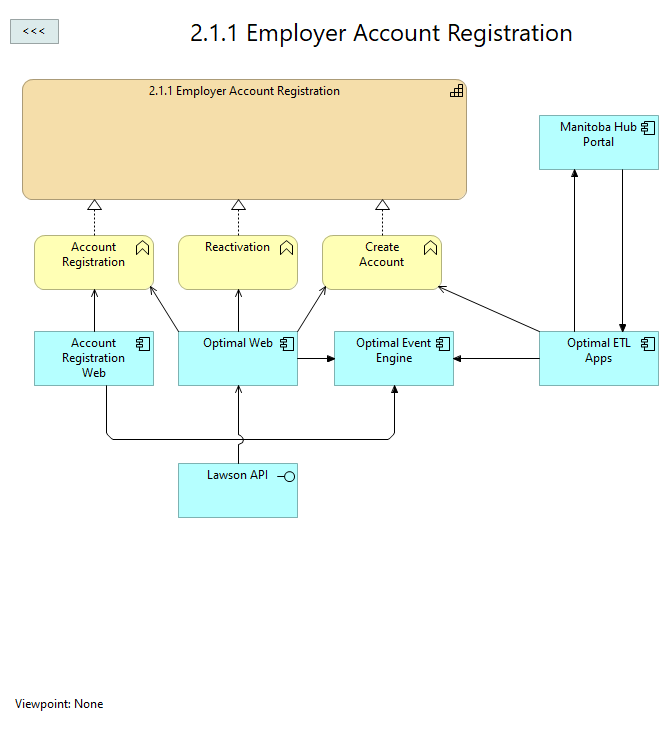
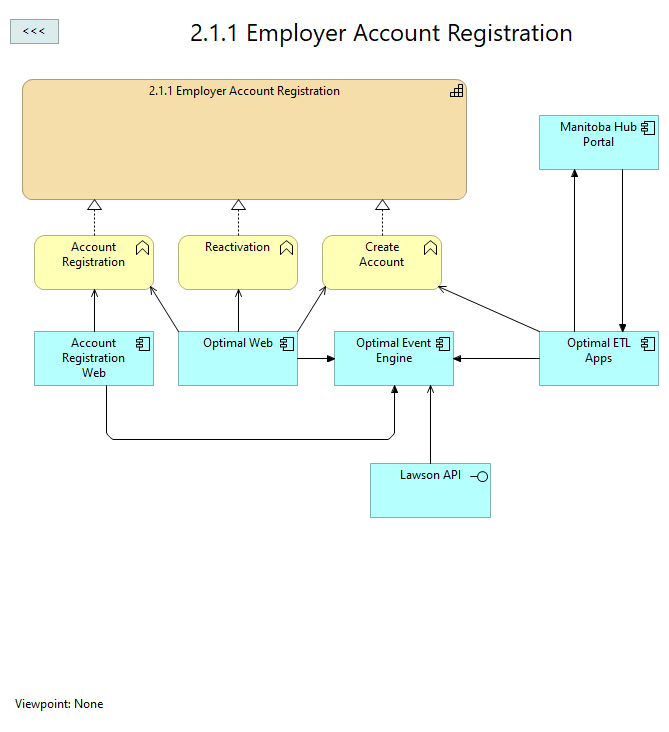
Version 2023-06-08 - 13:07

Changed region(s): [[0.5381, 0.6311, 0.7474, 0.7213], [0.2691, 0.6311, 0.4484, 0.7213]]

diff --git a/id-3b9cf8934b1f4226ba22a92c4b082ed1/elements/model.html b/id-3b9cf8934b1f4226ba22a92c4b082ed1/elements/model.html
@@ -1056,12 +1056,6 @@
 											dataElements.push({id:"id-2fdccea91dc6419cb0e8d6fe3bd04305", type:"ApplicationInterface", specialization:decodeURL(""), name:decodeURL("Emerge+Common+EJB"), documentation:decodeURL("")});
 
 
-									dataFoldersContent.push({folderid:"id-c0aab48c554c484da8b1b9d2928e0f4c", contentid:"id-8b5520bb1d01402b9ff922e7c1184881", contenttype:"ApplicationComponent"});
-										dataElements.push({id:"id-8b5520bb1d01402b9ff922e7c1184881", type:"ApplicationComponent", specialization:decodeURL(""), name:decodeURL("Crystal+Reports+%28copy%29"), documentation:decodeURL("Crystal+Reports+%3A%0D%0APlease+see%0D%0A1.+https%3A%2F%2Fwcbmb.atlassian.net%2Fwiki%2Fspaces%2FAS%2Fpages%2F18056512%2FCrystal%2BReport%2BProcesses%0D%0A2.+https%3A%2F%2Fwcbmb.atlassian.net%2Fwiki%2Fspaces%2FAS%2Fpages%2F18055472%2FCrystal%2BReports%2Bin%2BCrystal%2BEnterprise")});
-									dataFoldersContent.push({folderid:"id-c0aab48c554c484da8b1b9d2928e0f4c", contentid:"id-aa47ede78b48406ebdf73d8e0a5bcb5d", contenttype:"ApplicationComponent"});
-										dataElements.push({id:"id-aa47ede78b48406ebdf73d8e0a5bcb5d", type:"ApplicationComponent", specialization:decodeURL(""), name:decodeURL("SAFE+Work+Navigator+%28copy%29"), documentation:decodeURL("")});
-									dataFoldersContent.push({folderid:"id-c0aab48c554c484da8b1b9d2928e0f4c", contentid:"id-c2b8c8917253465bbbf574c5d1923326", contenttype:"ApplicationComponent"});
-										dataElements.push({id:"id-c2b8c8917253465bbbf574c5d1923326", type:"ApplicationComponent", specialization:decodeURL(""), name:decodeURL("Lawson+Financial+Suite+%28copy%29"), documentation:decodeURL("Lawson+Financial+Suite+is+used+for+keeping+WCB%27s+financial+information%0D%0APlease+see+the+confluence+link+https%3A%2F%2Fwcbmb.atlassian.net%2Fwiki%2Fspaces%2FAS%2Fpages%2F18055669%2FLawson%2BInfor+and+its+subpages+for+more+information.")});
 
 								dataFoldersContent.push({folderid:"id-3b9cf8934b1f4226ba22a92c4b082ed1", contentid:"id-abb08c1db1d54455b6d49205400c6284", contenttype:"Folder"});
 								dataFolders.push({id:"id-abb08c1db1d54455b6d49205400c6284", type:"Folder", name:decodeURL("Technology+%26+Physical"), documentation:decodeURL("")});
@@ -1913,6 +1907,8 @@
 										dataRelationships.push({id:"id-65352fbbb5474a3c975467d7fae6a67c", type:"ServingRelationship", specialization:decodeURL(""), name:decodeURL(""), documentation:decodeURL(""), sourceid:"id-150f8b103c4a49b5ba21681e464256e1", targetid:"id-808abc8e97f244b1aab34780e65e731c"});
 									dataFoldersContent.push({folderid:"id-a2a4fb0e578c424a82c01ce7bb023669", contentid:"id-66ebbb97b4fc44e69d20e8a7ed91b46d", contenttype:"ServingRelationship"});
 										dataRelationships.push({id:"id-66ebbb97b4fc44e69d20e8a7ed91b46d", type:"ServingRelationship", specialization:decodeURL(""), name:decodeURL(""), documentation:decodeURL(""), sourceid:"id-94569a9edaad416fb626849c42b31a17", targetid:"id-984d500e7583457383b5e835ecd82caf"});
+									dataFoldersContent.push({folderid:"id-a2a4fb0e578c424a82c01ce7bb023669", contentid:"id-6710af4c691648e486a54cd7c6c8299f", contenttype:"ServingRelationship"});
+										dataRelationships.push({id:"id-6710af4c691648e486a54cd7c6c8299f", type:"ServingRelationship", specialization:decodeURL(""), name:decodeURL(""), documentation:decodeURL(""), sourceid:"id-ed0722625be34bf9904e886054e2715c", targetid:"id-2200602adf494eae9a05823e75e734c1"});
 									dataFoldersContent.push({folderid:"id-a2a4fb0e578c424a82c01ce7bb023669", contentid:"id-6c86c609e85744aca322902d342d52c5", contenttype:"ServingRelationship"});
 										dataRelationships.push({id:"id-6c86c609e85744aca322902d342d52c5", type:"ServingRelationship", specialization:decodeURL(""), name:decodeURL(""), documentation:decodeURL(""), sourceid:"id-150f8b103c4a49b5ba21681e464256e1", targetid:"id-98e4633594c643f8bf432c6da076d887"});
 									dataFoldersContent.push({folderid:"id-a2a4fb0e578c424a82c01ce7bb023669", contentid:"id-70d59c4596f84c03b5326bf78741d6ae", contenttype:"ServingRelationship"});
@@ -2039,8 +2035,6 @@
 										dataRelationships.push({id:"id-e18d4e73c2bb4db48159a0d587614fb3", type:"ServingRelationship", specialization:decodeURL(""), name:decodeURL(""), documentation:decodeURL(""), sourceid:"id-c9ebf3abed38400eb7b01c8297cd31e4", targetid:"id-4a453d9b564f4dfe83d587e7686ea446"});
 									dataFoldersContent.push({folderid:"id-a2a4fb0e578c424a82c01ce7bb023669", contentid:"id-e26cd55cd37a4bb789795091fdb8d193", contenttype:"ServingRelationship"});
 										dataRelationships.push({id:"id-e26cd55cd37a4bb789795091fdb8d193", type:"ServingRelationship", specialization:decodeURL(""), name:decodeURL(""), documentation:decodeURL(""), sourceid:"id-c9ebf3abed38400eb7b01c8297cd31e4", targetid:"id-d221c03abc934d09880eab68fecd0045"});
-									dataFoldersContent.push({folderid:"id-a2a4fb0e578c424a82c01ce7bb023669", contentid:"id-e64c2e7de13c4e9eb6fac273e2886b0a", contenttype:"ServingRelationship"});
-										dataRelationships.push({id:"id-e64c2e7de13c4e9eb6fac273e2886b0a", type:"ServingRelationship", specialization:decodeURL(""), name:decodeURL(""), documentation:decodeURL(""), sourceid:"id-ed0722625be34bf9904e886054e2715c", targetid:"id-c9ebf3abed38400eb7b01c8297cd31e4"});
 									dataFoldersContent.push({folderid:"id-a2a4fb0e578c424a82c01ce7bb023669", contentid:"id-e7c44d687e3141f99ee6eadc26fbd2df", contenttype:"ServingRelationship"});
 										dataRelationships.push({id:"id-e7c44d687e3141f99ee6eadc26fbd2df", type:"ServingRelationship", specialization:decodeURL(""), name:decodeURL(""), documentation:decodeURL(""), sourceid:"id-94569a9edaad416fb626849c42b31a17", targetid:"id-21ba8432d9344ceb8c96f349d65ab331"});
 									dataFoldersContent.push({folderid:"id-a2a4fb0e578c424a82c01ce7bb023669", contentid:"id-e9883019bbb046c1b155beaac12c1983", contenttype:"ServingRelationship"});
@@ -2449,7 +2443,7 @@
 
 																					dataViewsContent.push({viewid:"id-b0a2d85a743f4b6a8fb7870d20d4e48c", contentid:"id-322377bdd0a440d2971e4558f8d7c19f", contenttype:"RealizationRelationship"});
 
-																					dataViewsContent.push({viewid:"id-b0a2d85a743f4b6a8fb7870d20d4e48c", contentid:"id-e64c2e7de13c4e9eb6fac273e2886b0a", contenttype:"ServingRelationship"});
+																					dataViewsContent.push({viewid:"id-b0a2d85a743f4b6a8fb7870d20d4e48c", contentid:"id-6710af4c691648e486a54cd7c6c8299f", contenttype:"ServingRelationship"});
 
 
 												dataFoldersContent.push({folderid:"id-1353bdddf1034566be7d4c5753010376", contentid:"id-cc3aeaab78e049e28c3d6930f5fd590d", contenttype:"ArchimateDiagramModel"});
@@ -3462,7 +3456,7 @@
 
 
 									dataFoldersContent.push({folderid:"id-be0607b7485c4369855dd4495990cf31", contentid:"id-65fac7f5916c4f0180a042fad055902d", contenttype:"Folder"});
-									dataFolders.push({id:"id-65fac7f5916c4f0180a042fad055902d", type:"Folder", name:decodeURL("Organization+Chart"), documentation:decodeURL("")});
+									dataFolders.push({id:"id-65fac7f5916c4f0180a042fad055902d", type:"Folder", name:decodeURL("Organization"), documentation:decodeURL("")});
 										dataFoldersContent.push({folderid:"id-65fac7f5916c4f0180a042fad055902d", contentid:"id-6081c1f96a2d42f9ada0ffe71e29828c", contenttype:"ArchimateDiagramModel"});
 											dataViews.push({id:"id-6081c1f96a2d42f9ada0ffe71e29828c", type:"ArchimateDiagramModel", name:decodeURL("Departments"), documentation:decodeURL("")});
 													dataViewsContent.push({viewid:"id-6081c1f96a2d42f9ada0ffe71e29828c", contentid:"id-105e7170556f4ebfa9ab3f3a493fe942", contenttype:"BusinessActor"});
@@ -3840,11 +3834,11 @@
 																dataViewsContent.push({viewid:"id-1d7347488a2041a0b2357eaf0640b1a9", contentid:"id-ded21278330e4795878c10331bb68f9a", contenttype:"ApplicationComponent"});
 																dataViewsContent.push({viewid:"id-1d7347488a2041a0b2357eaf0640b1a9", contentid:"id-a80ace60707e432f9b4a2ad7d36bc4ac", contenttype:"TechnologyService"});
 																dataViewsContent.push({viewid:"id-1d7347488a2041a0b2357eaf0640b1a9", contentid:"id-693001eafc1448cba7f8b041346a500a", contenttype:"TechnologyService"});
-																dataViewsContent.push({viewid:"id-1d7347488a2041a0b2357eaf0640b1a9", contentid:"id-c2b8c8917253465bbbf574c5d1923326", contenttype:"ApplicationComponent"});
-																dataViewsContent.push({viewid:"id-1d7347488a2041a0b2357eaf0640b1a9", contentid:"id-8b5520bb1d01402b9ff922e7c1184881", contenttype:"ApplicationComponent"});
 																dataViewsContent.push({viewid:"id-1d7347488a2041a0b2357eaf0640b1a9", contentid:"id-ca93184325fa41028c8b758d900fad13", contenttype:"TechnologyService"});
 																dataViewsContent.push({viewid:"id-1d7347488a2041a0b2357eaf0640b1a9", contentid:"id-e64b4e5abbf7473f93ee6f5de1e32f34", contenttype:"TechnologyService"});
-																dataViewsContent.push({viewid:"id-1d7347488a2041a0b2357eaf0640b1a9", contentid:"id-aa47ede78b48406ebdf73d8e0a5bcb5d", contenttype:"ApplicationComponent"});
+																dataViewsContent.push({viewid:"id-1d7347488a2041a0b2357eaf0640b1a9", contentid:"id-43293759620443b6a43a17e38325a613", contenttype:"ApplicationComponent"});
+																dataViewsContent.push({viewid:"id-1d7347488a2041a0b2357eaf0640b1a9", contentid:"id-94569a9edaad416fb626849c42b31a17", contenttype:"ApplicationComponent"});
+																dataViewsContent.push({viewid:"id-1d7347488a2041a0b2357eaf0640b1a9", contentid:"id-4959424d5d1f450a86478e33282d531f", contenttype:"ApplicationComponent"});
 														
 														dataViewsContent.push({viewid:"id-1d7347488a2041a0b2357eaf0640b1a9", contentid:"id-cf281068eafb4c5ebcf0445497f7cf38", contenttype:"Capability"});
 																dataViewsContent.push({viewid:"id-1d7347488a2041a0b2357eaf0640b1a9", contentid:"id-2eec05c15a07406fb184b626dc3caa70", contenttype:"ArchimateDiagramModel"});

diff --git a/id-3b9cf8934b1f4226ba22a92c4b082ed1/views/id-1d7347488a2041a0b2357eaf0640b1a9.html b/id-3b9cf8934b1f4226ba22a92c4b082ed1/views/id-1d7347488a2041a0b2357eaf0640b1a9.html
@@ -209,11 +209,11 @@
 				  				    <!-- Other diagram objects -->
 
 				  				<area shape="rect" coords="1054,338,1727,675" href="../elements/id-cf281068eafb4c5ebcf0445497f7cf38.html"  target="element">
-				  						<area shape="rect" coords="430,554,550,609" href="../elements/id-aa47ede78b48406ebdf73d8e0a5bcb5d.html"  target="element">
+				  						<area shape="rect" coords="430,434,550,489" href="../elements/id-4959424d5d1f450a86478e33282d531f.html"  target="element">
+				  						<area shape="rect" coords="298,614,418,669" href="../elements/id-94569a9edaad416fb626849c42b31a17.html"  target="element">
+				  						<area shape="rect" coords="430,560,550,615" href="../elements/id-43293759620443b6a43a17e38325a613.html"  target="element">
 				  						<area shape="rect" coords="430,374,550,429" href="../elements/id-e64b4e5abbf7473f93ee6f5de1e32f34.html"  target="element">
 				  						<area shape="rect" coords="430,494,550,549" href="../elements/id-ca93184325fa41028c8b758d900fad13.html"  target="element">
-				  						<area shape="rect" coords="430,434,550,489" href="../elements/id-8b5520bb1d01402b9ff922e7c1184881.html"  target="element">
-				  						<area shape="rect" coords="298,614,418,669" href="../elements/id-c2b8c8917253465bbbf574c5d1923326.html"  target="element">
 				  						<area shape="rect" coords="36,554,156,609" href="../elements/id-693001eafc1448cba7f8b041346a500a.html"  target="element">
 				  						<area shape="rect" coords="36,614,156,669" href="../elements/id-a80ace60707e432f9b4a2ad7d36bc4ac.html"  target="element">
 				  						<area shape="rect" coords="166,614,286,669" href="../elements/id-ded21278330e4795878c10331bb68f9a.html"  target="element">
@@ -386,18 +386,6 @@
 															</tr>
 
 															<tr>
-															    <td> <a href="../elements/id-c2b8c8917253465bbbf574c5d1923326.html" target="element"> Lawson Financial Suite (copy) </a> </td>
-															    <td> <a href="../elements/id-c2b8c8917253465bbbf574c5d1923326.html" target="element" class="i18n-elementtype-ApplicationComponent">
-															    </a> </td>
-															</tr>
-
-															<tr>
-															    <td> <a href="../elements/id-8b5520bb1d01402b9ff922e7c1184881.html" target="element"> Crystal Reports (copy) </a> </td>
-															    <td> <a href="../elements/id-8b5520bb1d01402b9ff922e7c1184881.html" target="element" class="i18n-elementtype-ApplicationComponent">
-															    </a> </td>
-															</tr>
-
-															<tr>
 															    <td> <a href="../elements/id-ca93184325fa41028c8b758d900fad13.html" target="element"> Comm100 </a> </td>
 															    <td> <a href="../elements/id-ca93184325fa41028c8b758d900fad13.html" target="element" class="i18n-elementtype-TechnologyService">
 															    </a> </td>
@@ -410,8 +398,20 @@
 															</tr>
 
 															<tr>
-															    <td> <a href="../elements/id-aa47ede78b48406ebdf73d8e0a5bcb5d.html" target="element"> SAFE Work Navigator (copy) </a> </td>
-															    <td> <a href="../elements/id-aa47ede78b48406ebdf73d8e0a5bcb5d.html" target="element" class="i18n-elementtype-ApplicationComponent">
+															    <td> <a href="../elements/id-43293759620443b6a43a17e38325a613.html" target="element"> SAFE Work Navigator </a> </td>
+															    <td> <a href="../elements/id-43293759620443b6a43a17e38325a613.html" target="element" class="i18n-elementtype-ApplicationComponent">
+															    </a> </td>
+															</tr>
+
+															<tr>
+															    <td> <a href="../elements/id-94569a9edaad416fb626849c42b31a17.html" target="element"> Lawson Financial Suite </a> </td>
+															    <td> <a href="../elements/id-94569a9edaad416fb626849c42b31a17.html" target="element" class="i18n-elementtype-ApplicationComponent">
+															    </a> </td>
+															</tr>
+
+															<tr>
+															    <td> <a href="../elements/id-4959424d5d1f450a86478e33282d531f.html" target="element"> Crystal Reports </a> </td>
+															    <td> <a href="../elements/id-4959424d5d1f450a86478e33282d531f.html" target="element" class="i18n-elementtype-ApplicationComponent">
 															    </a> </td>
 															</tr>
 

diff --git a/id-3b9cf8934b1f4226ba22a92c4b082ed1/elements/id-6710af4c691648e486a54cd7c6c8299f.html b/id-3b9cf8934b1f4226ba22a92c4b082ed1/elements/id-6710af4c691648e486a54cd7c6c8299f.html
@@ -1,0 +1,79 @@
+<!DOCTYPE html>
+<html class="frame" lang="en">
+<head>
+	<meta http-equiv="Content-Type" content="text/html;charset=utf-8">
+	<title></title>
+
+	<!-- JQUERY -->
+	<script type="text/javascript" src="../../lib/jquery/jquery.min.js"></script>
+	<!-- BOOTSTRAP -->
+	<link type="text/css" rel="stylesheet" href="../../lib/bootstrap/css/bootstrap.min.yeti.css">
+	<script type="text/javascript" src="../../lib/bootstrap/js/bootstrap-3.3.2.min.js"></script>
+	<!-- REPORT SPECIFIC -->
+	<link type="text/css" rel="stylesheet" href="../../css/model.css">
+	<link type="text/css" rel="stylesheet" href="../../css/i18n.css">
+	<script type="text/javascript" src="../../js/frame.js"></script>
+	<script type="text/javascript" src="../../js/imageMapResizer.min.js"></script>
+</head>
+
+<body>
+	<div class="panel panel-default root-panel">
+
+		<div class="panel-heading root-panel-heading">
+            <!-- Name -->
+               <b class="i18n-elementtype-ServingRelationship"></b>
+            <!-- If a View with Viewpoint -->
+			   (<span class="i18n-elementtype-ServingRelationship"></span>)
+			   <a class="glyphicon glyphicon-info-sign" id="hint-ServingRelationship" target="hint"></a>
+		</div>
+
+		<div class="panel-body root-panel-body">
+		    <!-- If this is a digram model (has children and no bounds) show the image -->
+
+			<div role="tabpanel">
+				<!-- Nav tabs -->
+				<ul class="nav nav-tabs" role="tablist">
+                    <!-- Purpose / Documentation / Content -->
+					   <li role="presentation" class="active"><a href="#documentation" aria-controls="documentation" role="tab" data-toggle="tab" class="i18n-documentation"></a></li>
+
+                    <!-- Properties -->
+                    <li role="presentation"><a href="#properties" aria-controls="properties" role="tab" data-toggle="tab" class="i18n-properties"></a></li>
+
+				</ul>
+
+				<!-- Tab panes -->
+				<div class="tab-content">
+					<div role="tabpanel" class="tab-pane active" id="documentation">
+							<br>
+							<b class="i18n-relation-source"></b>
+								<a href="../elements/id-ed0722625be34bf9904e886054e2715c.html" target="element">
+									Lawson API
+								</a>
+							<br>
+							<b class="i18n-relation-target"></b>
+								<a href="../elements/id-2200602adf494eae9a05823e75e734c1.html" target="element">
+									Optimal Event Engine
+								</a>
+							<br>
+							<br>
+						<div class="convertlinks documentation" style="white-space:pre-wrap"></div>
+					</div>
+					<div role="tabpanel" class="tab-pane" id="properties">
+						<table class="table table-striped table-hover table-condensed">
+							<thead>
+								<tr>
+									<th class="i18n-key"></th>
+									<th class="i18n-value"></th>
+								</tr>
+							</thead>
+							<tbody>
+							</tbody>
+						</table>
+					</div>
+			  </div>
+			</div>
+		</div>
+	</div>
+	<script type="text/javascript">imageMapResize();</script>
+</body>
+</html>

diff --git a/index.html b/index.html
@@ -711,10 +711,6 @@
 
 											</ul>
 											</li>
-													<li class="tree-element "><a href="id-3b9cf8934b1f4226ba22a92c4b082ed1/elements/id-8b5520bb1d01402b9ff922e7c1184881.html" target="element"> Crystal Reports (copy) </a></li>
-													<li class="tree-element "><a href="id-3b9cf8934b1f4226ba22a92c4b082ed1/elements/id-aa47ede78b48406ebdf73d8e0a5bcb5d.html" target="element"> SAFE Work Navigator (copy) </a></li>
-													<li class="tree-element "><a href="id-3b9cf8934b1f4226ba22a92c4b082ed1/elements/id-c2b8c8917253465bbbf574c5d1923326.html" target="element"> Lawson Financial Suite (copy) </a></li>
-
 									</ul>
 								</li>
 								<li class="tree-folder "><span class="i18n-technology_layer"><i class="glyphicon glyphicon-triangle-right"></i> </span>
@@ -2081,6 +2077,10 @@
 															<span class="i18n-elementtype-ServingRelationship"></span>
 														(Lawson Financial Suite - 3.8.2.1Budget creation and management) 
 													</a></li>
+													<li class="tree-element "><a href="id-3b9cf8934b1f4226ba22a92c4b082ed1/elements/id-6710af4c691648e486a54cd7c6c8299f.html" target="element">
+															<span class="i18n-elementtype-ServingRelationship"></span>
+														(Lawson API - Optimal Event Engine) 
+													</a></li>
 													<li class="tree-element "><a href="id-3b9cf8934b1f4226ba22a92c4b082ed1/elements/id-6c86c609e85744aca322902d342d52c5.html" target="element">
 															<span class="i18n-elementtype-ServingRelationship"></span>
 														(Emerge Web - Print Claim File) 
@@ -2332,10 +2332,6 @@
 													<li class="tree-element "><a href="id-3b9cf8934b1f4226ba22a92c4b082ed1/elements/id-e26cd55cd37a4bb789795091fdb8d193.html" target="element">
 															<span class="i18n-elementtype-ServingRelationship"></span>
 														(Optimal Web - 3.8.9.2 Late payment tracking and collections) 
-													</a></li>
-													<li class="tree-element "><a href="id-3b9cf8934b1f4226ba22a92c4b082ed1/elements/id-e64c2e7de13c4e9eb6fac273e2886b0a.html" target="element">
-															<span class="i18n-elementtype-ServingRelationship"></span>
-														(Lawson API - Optimal Web) 
 													</a></li>
 													<li class="tree-element "><a href="id-3b9cf8934b1f4226ba22a92c4b082ed1/elements/id-e7c44d687e3141f99ee6eadc26fbd2df.html" target="element">
 															<span class="i18n-elementtype-ServingRelationship"></span>
@@ -2650,7 +2646,7 @@
 											</ul>
 											</li>
 									</ul>
-									</li><li class="tree-folder "><span><i class="glyphicon glyphicon-triangle-right"></i> Organization Chart </span>
+									</li><li class="tree-folder "><span><i class="glyphicon glyphicon-triangle-right"></i> Organization </span>
 									<ul>
 													<li class="tree-element "><a href="id-3b9cf8934b1f4226ba22a92c4b082ed1/views/id-6081c1f96a2d42f9ada0ffe71e29828c.html" target="view"> Departments </a></li>
 

diff --git a/id-3b9cf8934b1f4226ba22a92c4b082ed1/objects/id-9c5ec7e411364fb680cf614b6aa323d8.html b/id-3b9cf8934b1f4226ba22a92c4b082ed1/objects/id-9c5ec7e411364fb680cf614b6aa323d8.html
@@ -174,18 +174,6 @@
 													</tr>
 
 													<tr>
-													    <td> <a href="../elements/id-c2b8c8917253465bbbf574c5d1923326.html" target="element"> Lawson Financial Suite (copy) </a> </td>
-													    <td> <a href="../elements/id-c2b8c8917253465bbbf574c5d1923326.html" target="element" class="i18n-elementtype-ApplicationComponent">
-													    </a> </td>
-													</tr>
-
-													<tr>
-													    <td> <a href="../elements/id-8b5520bb1d01402b9ff922e7c1184881.html" target="element"> Crystal Reports (copy) </a> </td>
-													    <td> <a href="../elements/id-8b5520bb1d01402b9ff922e7c1184881.html" target="element" class="i18n-elementtype-ApplicationComponent">
-													    </a> </td>
-													</tr>
-
-													<tr>
 													    <td> <a href="../elements/id-ca93184325fa41028c8b758d900fad13.html" target="element"> Comm100 </a> </td>
 													    <td> <a href="../elements/id-ca93184325fa41028c8b758d900fad13.html" target="element" class="i18n-elementtype-TechnologyService">
 													    </a> </td>
@@ -198,8 +186,20 @@
 													</tr>
 
 													<tr>
-													    <td> <a href="../elements/id-aa47ede78b48406ebdf73d8e0a5bcb5d.html" target="element"> SAFE Work Navigator (copy) </a> </td>
-													    <td> <a href="../elements/id-aa47ede78b48406ebdf73d8e0a5bcb5d.html" target="element" class="i18n-elementtype-ApplicationComponent">
+													    <td> <a href="../elements/id-43293759620443b6a43a17e38325a613.html" target="element"> SAFE Work Navigator </a> </td>
+													    <td> <a href="../elements/id-43293759620443b6a43a17e38325a613.html" target="element" class="i18n-elementtype-ApplicationComponent">
+													    </a> </td>
+													</tr>
+
+													<tr>
+													    <td> <a href="../elements/id-94569a9edaad416fb626849c42b31a17.html" target="element"> Lawson Financial Suite </a> </td>
+													    <td> <a href="../elements/id-94569a9edaad416fb626849c42b31a17.html" target="element" class="i18n-elementtype-ApplicationComponent">
+													    </a> </td>
+													</tr>
+
+													<tr>
+													    <td> <a href="../elements/id-4959424d5d1f450a86478e33282d531f.html" target="element"> Crystal Reports </a> </td>
+													    <td> <a href="../elements/id-4959424d5d1f450a86478e33282d531f.html" target="element" class="i18n-elementtype-ApplicationComponent">
 													    </a> </td>
 													</tr>
 

diff --git a/id-3b9cf8934b1f4226ba22a92c4b082ed1/views/id-b0a2d85a743f4b6a8fb7870d20d4e48c.html b/id-3b9cf8934b1f4226ba22a92c4b082ed1/views/id-b0a2d85a743f4b6a8fb7870d20d4e48c.html
@@ -33,7 +33,7 @@
 		    <!-- If this is a digram model (has children and no bounds) show the image -->
 			   <img class="diagram" src="../images/id-b0a2d85a743f4b6a8fb7870d20d4e48c.png" alt="2.1.1 Employer Account Registration" usemap="#id-b0a2d85a743f4b6a8fb7870d20d4e48cmap"/>
 			   <map name="id-b0a2d85a743f4b6a8fb7870d20d4e48cmap">
-				  		<area shape="rect" coords="178,463,298,518" href="../elements/id-ed0722625be34bf9904e886054e2715c.html"  target="element">
+				  		<area shape="rect" coords="370,463,491,518" href="../elements/id-ed0722625be34bf9904e886054e2715c.html"  target="element">
 				  		<area shape="rect" coords="322,235,442,290" href="../elements/id-7630f98a72e24712ae32f830cfcf914c.html"  target="element">
 				  		<area shape="rect" coords="178,235,298,290" href="../elements/id-d4967ca7c30a4825a272ba43ef15f2e6.html"  target="element">
 				  		<area shape="rect" coords="34,235,154,290" href="../elements/id-96fe2a835e804b5f86a3efb3baa16868.html"  target="element">
@@ -283,11 +283,11 @@
 																	</tr>
 
 																	<tr>
-																		<td> <a href="../elements/id-e64c2e7de13c4e9eb6fac273e2886b0a.html" target="element">  </a> </td>
-																		<td> <a href="../elements/id-e64c2e7de13c4e9eb6fac273e2886b0a.html" target="element" class="i18n-elementtype-ServingRelationship">
+																		<td> <a href="../elements/id-6710af4c691648e486a54cd7c6c8299f.html" target="element">  </a> </td>
+																		<td> <a href="../elements/id-6710af4c691648e486a54cd7c6c8299f.html" target="element" class="i18n-elementtype-ServingRelationship">
 																		</a> </td>
 																		<td> <a href="../elements/id-ed0722625be34bf9904e886054e2715c.html" target="element"> Lawson API </a> </td>
-																		<td> <a href="../elements/id-c9ebf3abed38400eb7b01c8297cd31e4.html" target="element"> Optimal Web </a> </td>
+																		<td> <a href="../elements/id-2200602adf494eae9a05823e75e734c1.html" target="element"> Optimal Event Engine </a> </td>
 																	</tr>
 
 
